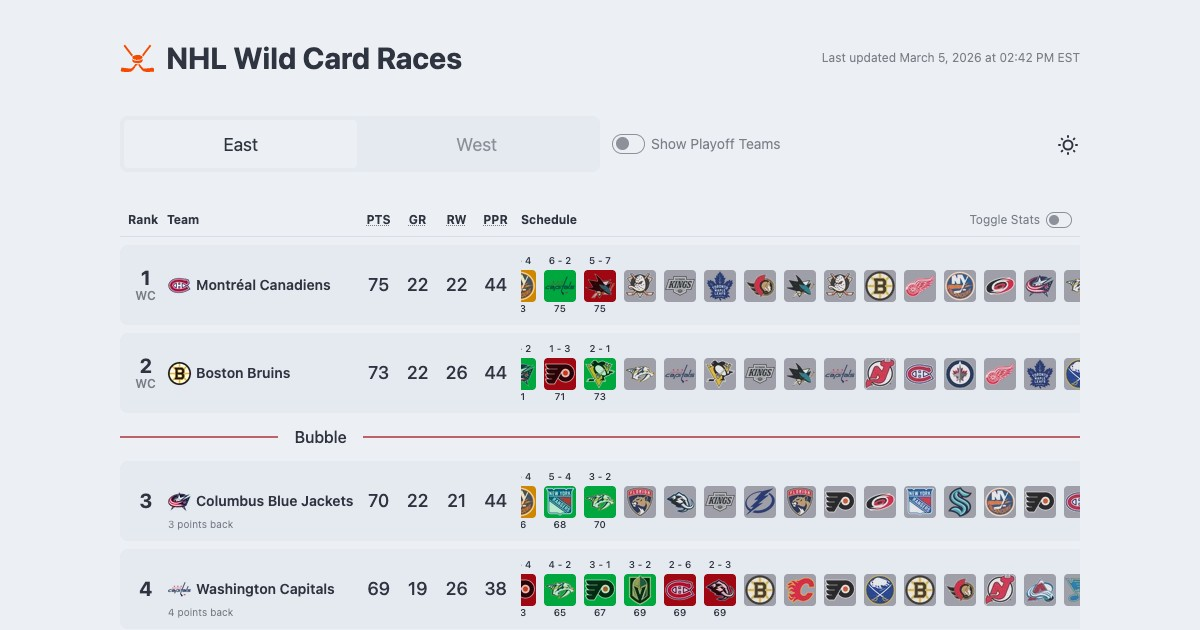
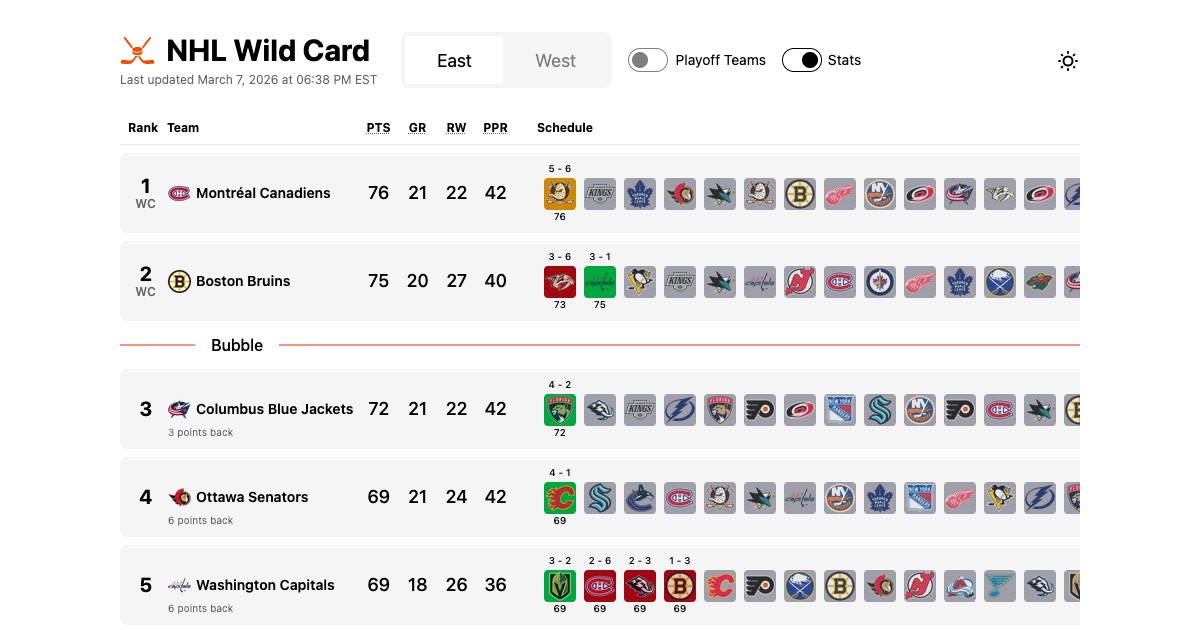
SEO stuffs. New screenshots.

diff --git a/integrations/capture-screenshots/index.ts b/integrations/capture-screenshots/index.ts
@@ -1,5 +1,6 @@
 import captureWebsite from 'capture-website';
 import { spawn } from 'node:child_process';
+import { unlink } from 'node:fs/promises';
 import { resolve } from 'node:path';
 import type { AstroIntegration } from 'astro';
 
@@ -26,8 +27,16 @@ export default function captureScreenshots(): AstroIntegration {
                 try {
                     for (const pathname of pathnames) {
                         const slug = pathname.replace(/^\/+|\/+$/g, '').replace(/\//g, '-');
+                        const outPath = resolve('./public', `screenshot-${slug}.jpg`);
                         console.log(`📸 ${pathname} → screenshot-${slug}.jpg`);
-                        await captureWebsite.file(`${BASE}${pathname}`, resolve('./public', `screenshot-${slug}.jpg`), {
+                        try {
+                            await unlink(outPath);
+                        } catch (err) {
+                            if ((err as NodeJS.ErrnoException).code !== 'ENOENT') {
+                                throw err;
+                            }
+                        }
+                        await captureWebsite.file(`${BASE}${pathname}`, outPath, {
                             width: 1200, height: 630, type: 'jpeg', quality: 0.9, scaleFactor: 1, delay: 1,
                         });
                     }
